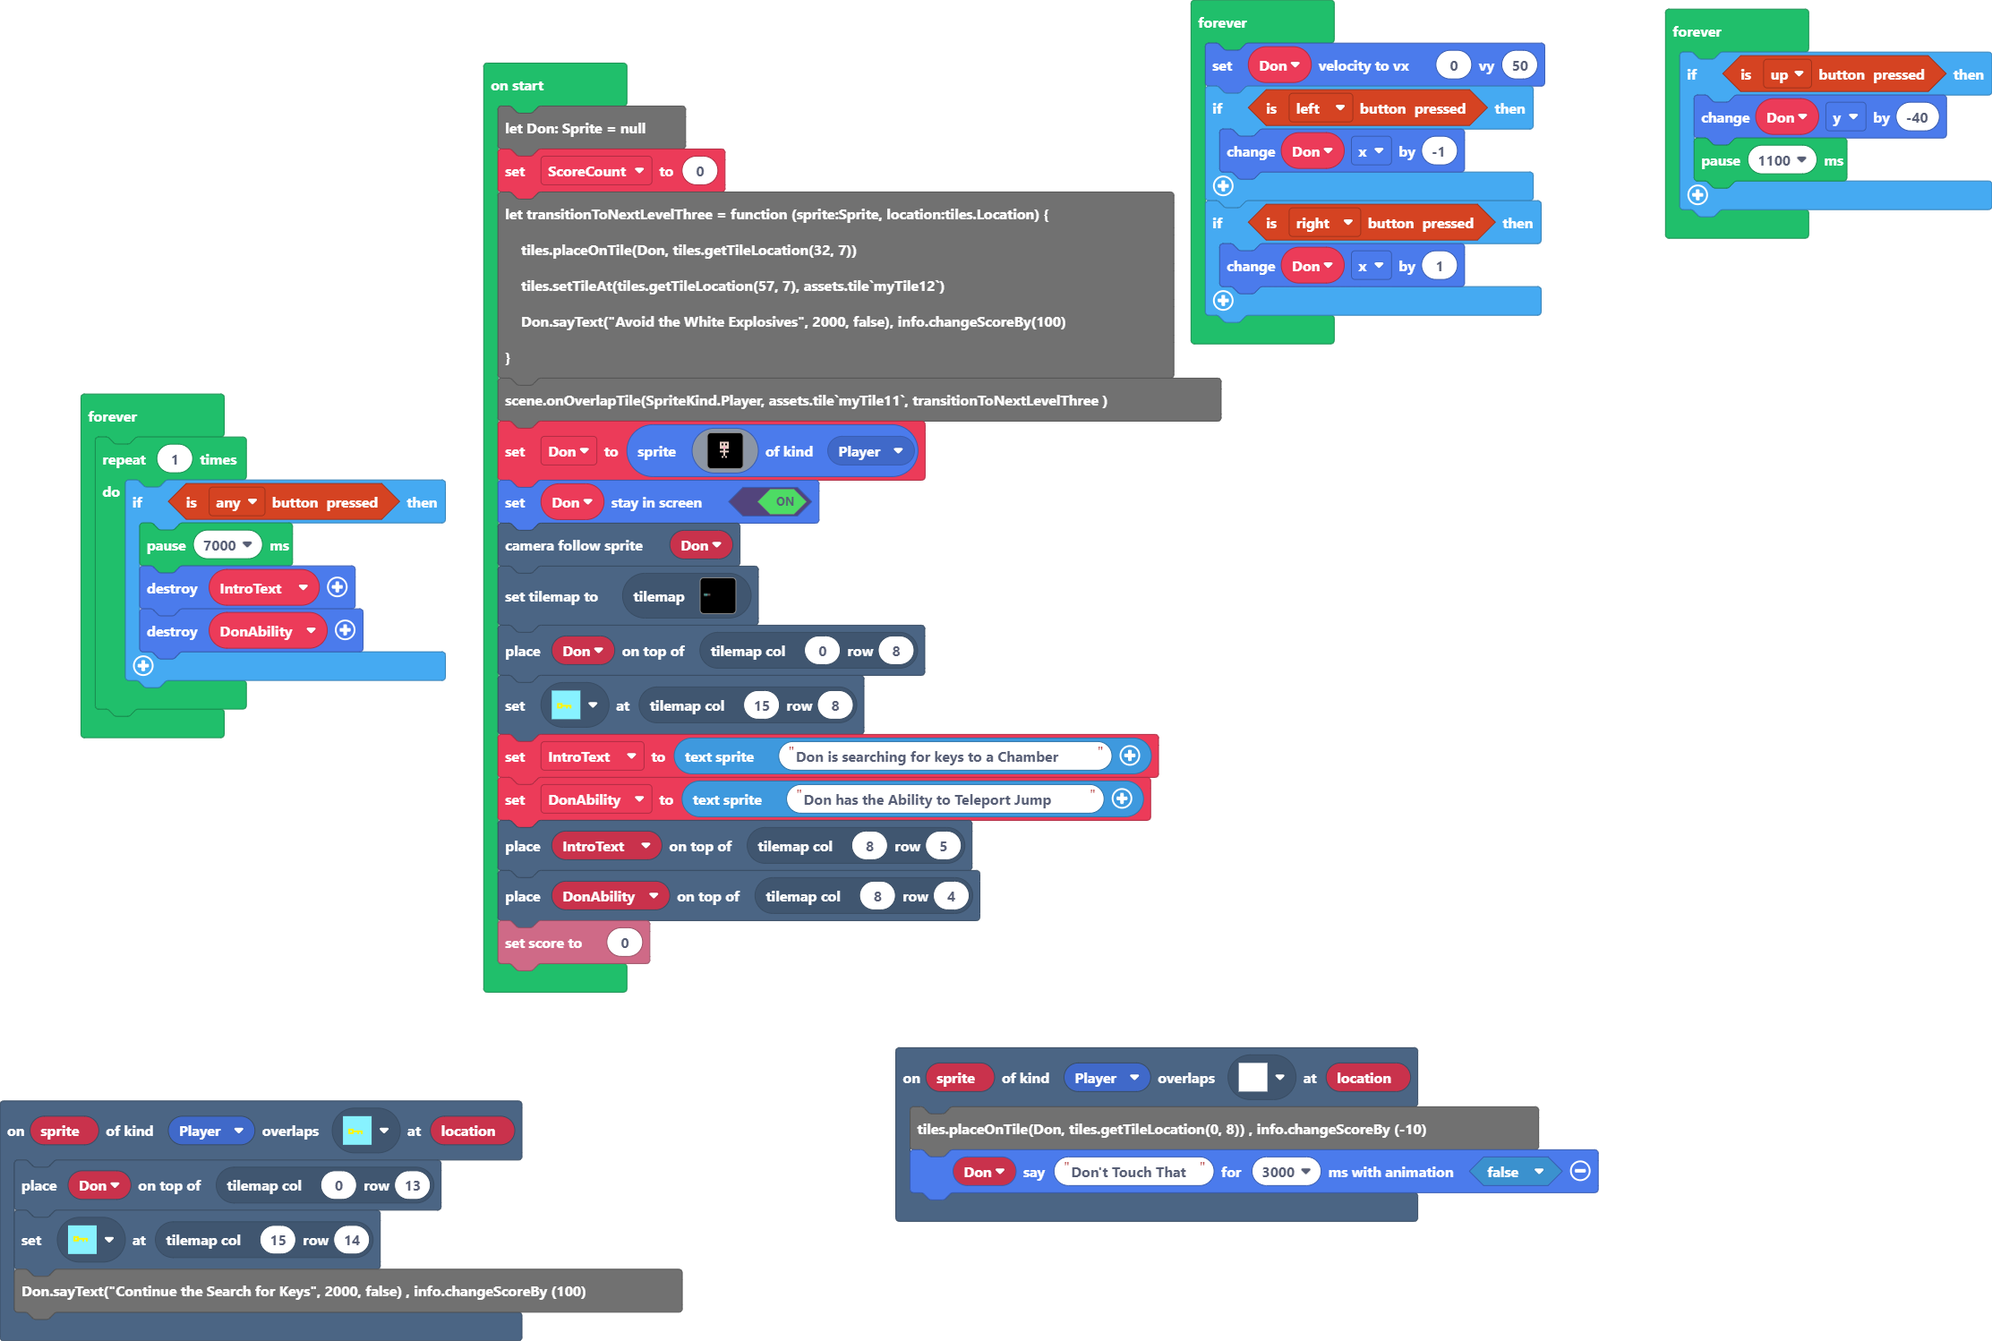
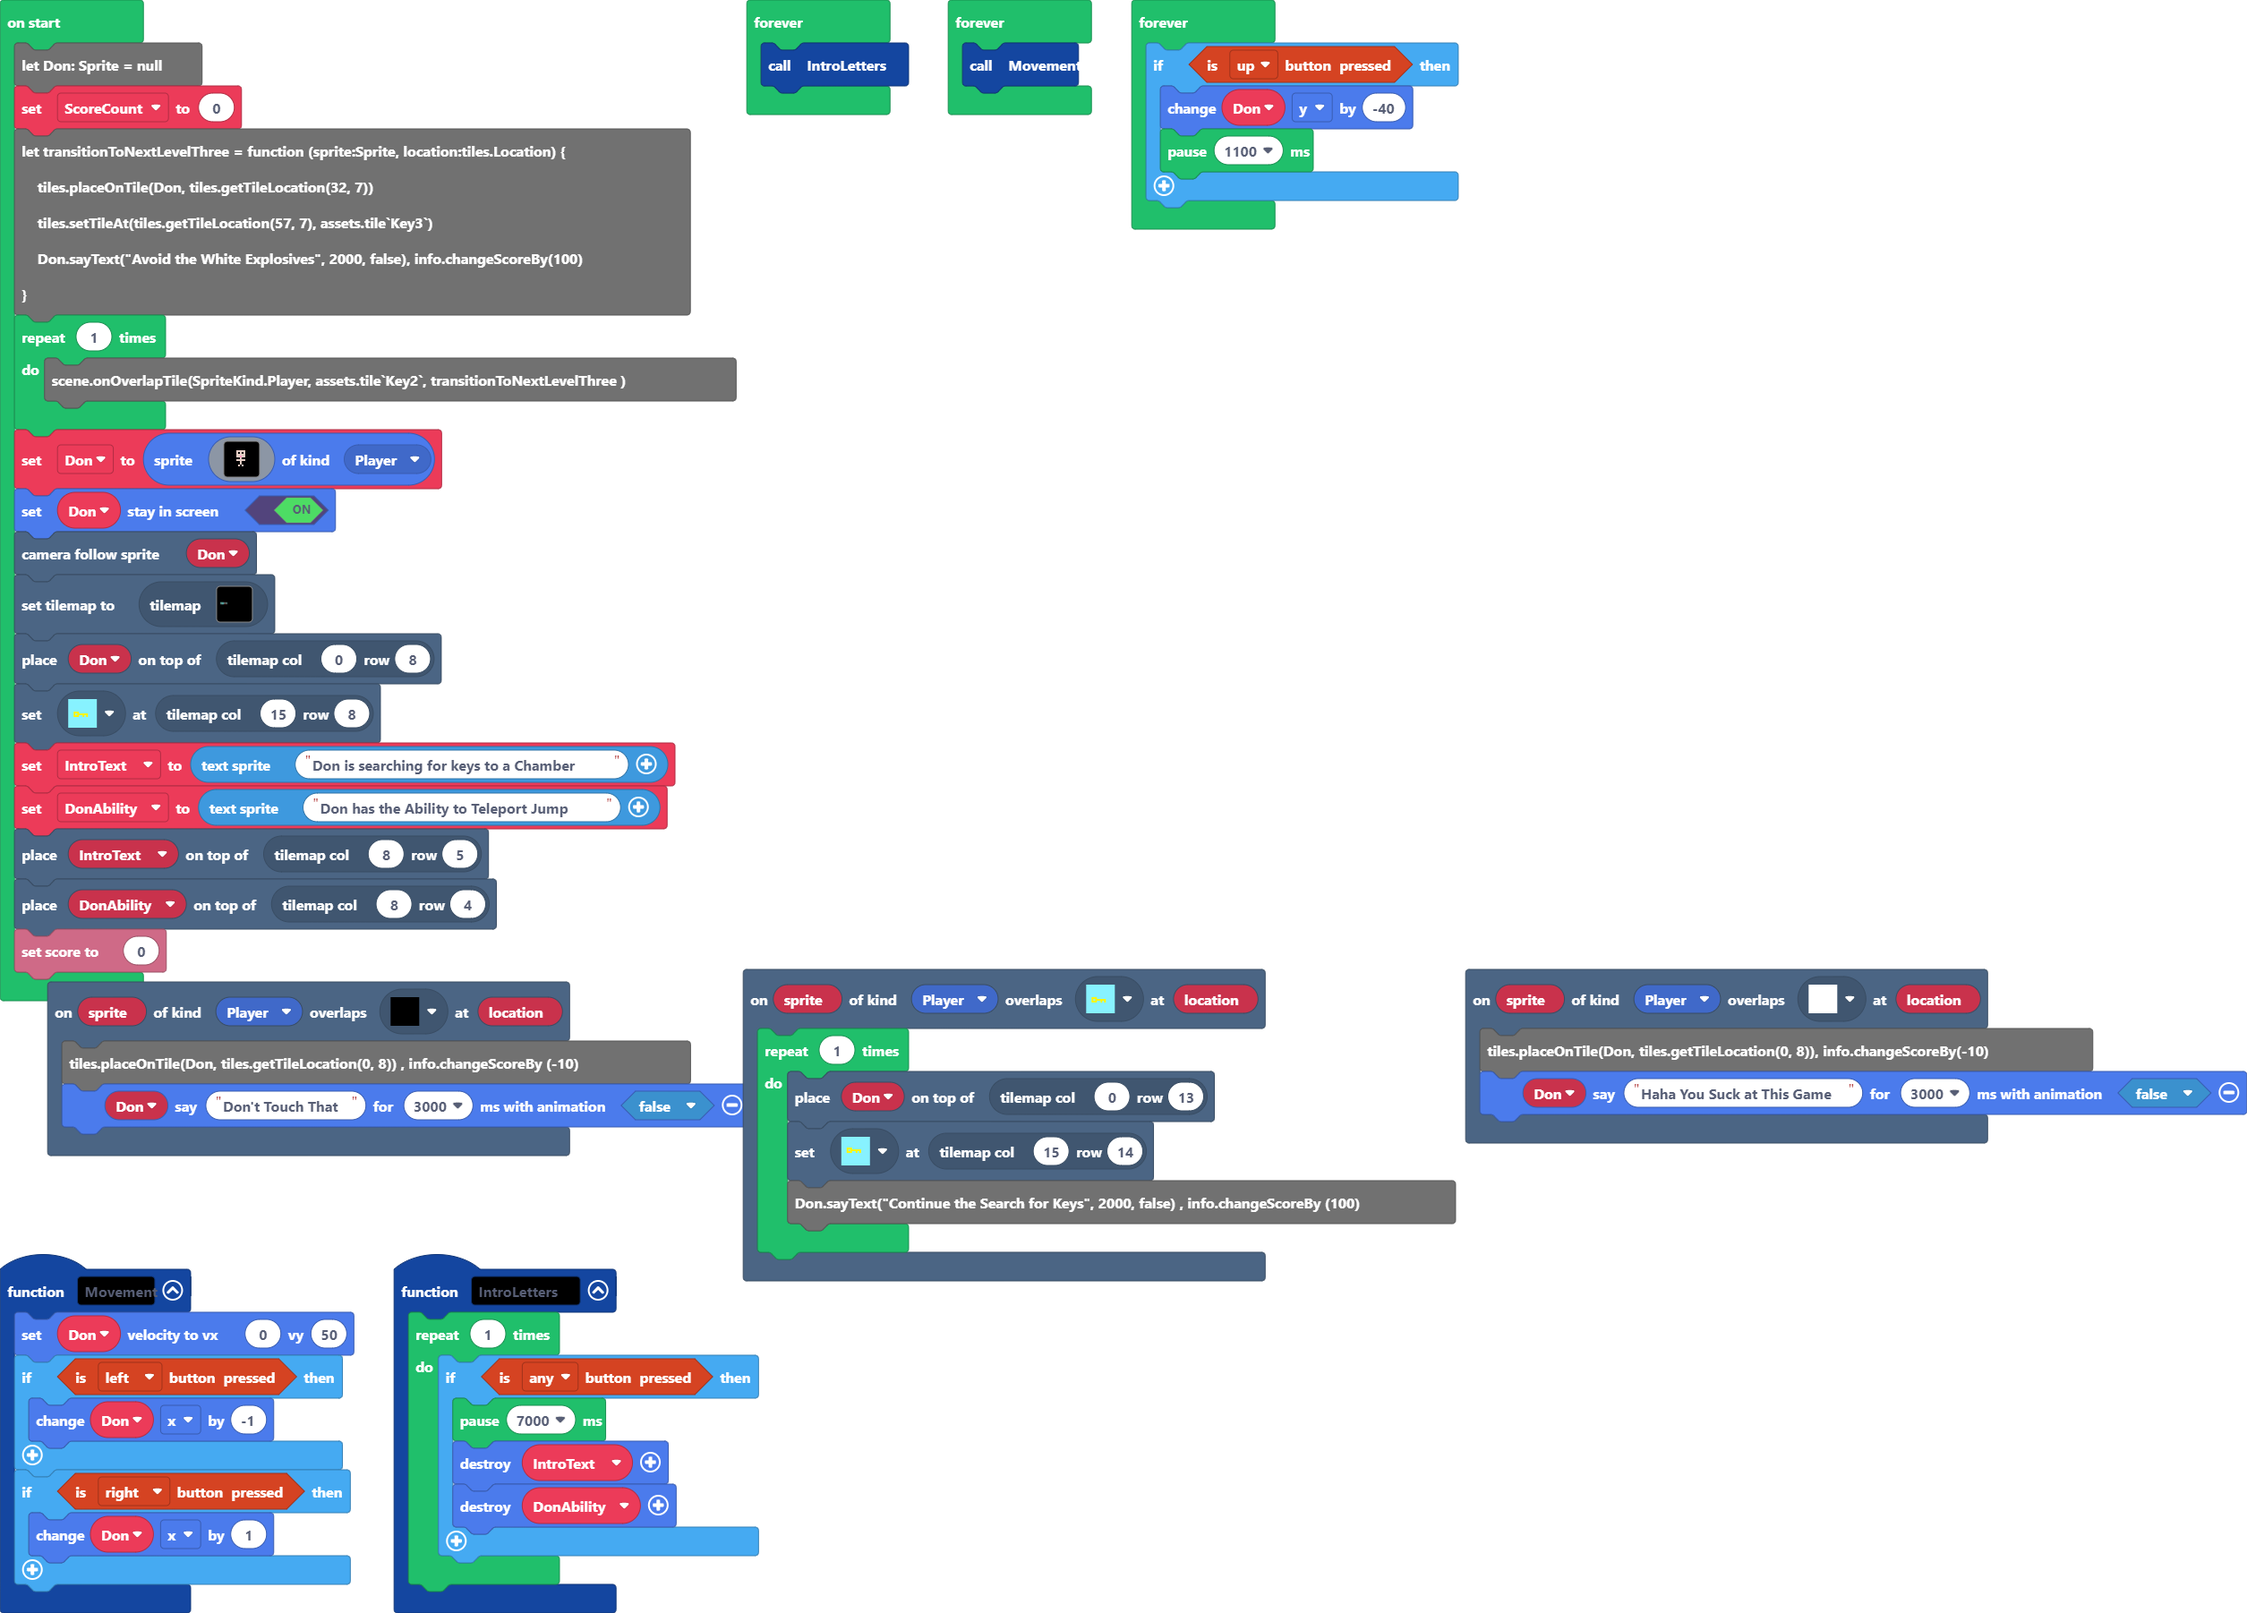
Update pxt.json, main.blocks, main.ts, tilemap.g.jres, tilemap.g.ts

diff --git a/main.ts b/main.ts
@@ -1,35 +1,11 @@
 namespace SpriteKind {
     export const Player2 = SpriteKind.create()
-} 
+}
 scene.onOverlapTile(SpriteKind.Player, assets.tile`myTile7`, function (sprite, location) {
     tiles.placeOnTile(Don, tiles.getTileLocation(0, 8)) , info.changeScoreBy (-10)
 Don.sayText("Don't Touch That", 3000, false)
 })
-scene.onOverlapTile(SpriteKind.Player, assets.tile`myTile10`, function (sprite, location) {
-    tiles.placeOnTile(Don, tiles.getTileLocation(0, 13))
-    tiles.setTileAt(tiles.getTileLocation(15, 14), assets.tile`myTile11`)
-    Don.sayText("Continue the Search for Keys", 2000, false) , info.changeScoreBy (100)
-})
-let Don: Sprite = null
-let ScoreCount = 0
-let transitionToNextLevelThree = function (sprite:Sprite, location:tiles.Location) {
-    tiles.placeOnTile(Don, tiles.getTileLocation(32, 7))
-    tiles.setTileAt(tiles.getTileLocation(57, 7), assets.tile`myTile13`)
-    Don.sayText("Avoid the White Explosives", 2000, false), info.changeScoreBy(100)
-}
-scene.onOverlapTile(SpriteKind.Player, assets.tile`myTile11`, transitionToNextLevelThree )
-Don = sprites.create(assets.image`Don`, SpriteKind.Player)
-Don.setStayInScreen(true)
-scene.cameraFollowSprite(Don)
-tiles.setCurrentTilemap(tilemap`World102`)
-tiles.placeOnTile(Don, tiles.getTileLocation(0, 8))
-tiles.setTileAt(tiles.getTileLocation(15, 8), assets.tile`myTile10`)
-let IntroText = textsprite.create("Don is searching for keys to a Chamber")
-let DonAbility = textsprite.create("Don has the Ability to Teleport Jump")
-tiles.placeOnTile(IntroText, tiles.getTileLocation(8, 5))
-tiles.placeOnTile(DonAbility, tiles.getTileLocation(8, 4))
-info.setScore(0)
-forever(function () {
+function Movement () {
     Don.setVelocity(0, 50)
     if (controller.left.isPressed()) {
         Don.x += -1
@@ -37,14 +13,15 @@ forever(function () {
     if (controller.right.isPressed()) {
         Don.x += 1
     }
-})
-forever(function () {
-    if (controller.up.isPressed()) {
-        Don.y += -40
-        pause(1100)
+}
+scene.onOverlapTile(SpriteKind.Player, assets.tile`Key1`, function (sprite, location) {
+    for (let index = 0; index < 1; index++) {
+        tiles.placeOnTile(Don, tiles.getTileLocation(0, 13))
+        tiles.setTileAt(tiles.getTileLocation(15, 14), assets.tile`Key2`)
+        Don.sayText("Continue the Search for Keys", 2000, false) , info.changeScoreBy (100)
     }
 })
-forever(function () {
+function IntroLetters () {
     for (let index = 0; index < 1; index++) {
         if (controller.anyButton.isPressed()) {
             pause(7000)
@@ -52,8 +29,43 @@ forever(function () {
             DonAbility.destroy()
         }
     }
-})
+}
 scene.onOverlapTile(SpriteKind.Player, assets.tile`myTile14`, function (sprite, location) {
     tiles.placeOnTile(Don, tiles.getTileLocation(0, 8)), info.changeScoreBy(-10)
-    Don.sayText("Haha You Suck at This Game", 3000, false)
+Don.sayText("Haha You Suck at This Game", 3000, false)
+})
+let DonAbility: TextSprite = null
+let IntroText: TextSprite = null
+let Don: Sprite = null
+let ScoreCount = 0
+let transitionToNextLevelThree = function (sprite:Sprite, location:tiles.Location) {
+    tiles.placeOnTile(Don, tiles.getTileLocation(32, 7))
+    tiles.setTileAt(tiles.getTileLocation(57, 7), assets.tile`Key3`)
+    Don.sayText("Avoid the White Explosives", 2000, false), info.changeScoreBy(100)
+}
+for (let index = 0; index < 1; index++) {
+    scene.onOverlapTile(SpriteKind.Player, assets.tile`Key2`, transitionToNextLevelThree )
+}
+Don = sprites.create(assets.image`Don`, SpriteKind.Player)
+Don.setStayInScreen(true)
+scene.cameraFollowSprite(Don)
+tiles.setCurrentTilemap(tilemap`World102`)
+tiles.placeOnTile(Don, tiles.getTileLocation(0, 8))
+tiles.setTileAt(tiles.getTileLocation(15, 8), assets.tile`Key1`)
+IntroText = textsprite.create("Don is searching for keys to a Chamber")
+DonAbility = textsprite.create("Don has the Ability to Teleport Jump")
+tiles.placeOnTile(IntroText, tiles.getTileLocation(8, 5))
+tiles.placeOnTile(DonAbility, tiles.getTileLocation(8, 4))
+info.setScore(0)
+forever(function () {
+    IntroLetters()
+})
+forever(function () {
+    Movement()
+})
+forever(function () {
+    if (controller.up.isPressed()) {
+        Don.y += -40
+        pause(1100)
+    }
 })

diff --git a/tilemap.g.ts b/tilemap.g.ts
@@ -23,8 +23,6 @@ namespace myTiles {
     //% fixedInstance jres blockIdentity=images._tile
     export const tile13 = image.ofBuffer(hex``);
     //% fixedInstance jres blockIdentity=images._tile
-    export const tile12 = image.ofBuffer(hex``);
-    //% fixedInstance jres blockIdentity=images._tile
     export const tile14 = image.ofBuffer(hex``);
     //% fixedInstance jres blockIdentity=images._tile
     export const tile17 = image.ofBuffer(hex``);
@@ -33,13 +31,15 @@ namespace myTiles {
     //% fixedInstance jres blockIdentity=images._tile
     export const tile10 = image.ofBuffer(hex``);
     //% fixedInstance jres blockIdentity=images._tile
+    export const tile19 = image.ofBuffer(hex``);
+    //% fixedInstance jres blockIdentity=images._tile
+    export const tile12 = image.ofBuffer(hex``);
+    //% fixedInstance jres blockIdentity=images._tile
     export const tile15 = image.ofBuffer(hex``);
     //% fixedInstance jres blockIdentity=images._tile
     export const tile16 = image.ofBuffer(hex``);
     //% fixedInstance jres blockIdentity=images._tile
     export const tile18 = image.ofBuffer(hex``);
-    //% fixedInstance jres blockIdentity=images._tile
-    export const tile19 = image.ofBuffer(hex``);
 
     helpers._registerFactory("tilemap", function(name: string) {
         switch(helpers.stringTrim(name)) {
@@ -222,8 +222,6 @@ namespace myTiles {
             case "tile11":return tile11;
             case "myTile8":
             case "tile13":return tile13;
-            case "myTile7":
-            case "tile12":return tile12;
             case "myTile9":
             case "tile14":return tile14;
             case "myTile12":
@@ -232,14 +230,16 @@ namespace myTiles {
             case "tile8":return tile8;
             case "myTile5":
             case "tile10":return tile10;
-            case "myTile10":
-            case "tile15":return tile15;
-            case "myTile11":
-            case "tile16":return tile16;
-            case "myTile13":
-            case "tile18":return tile18;
             case "myTile14":
             case "tile19":return tile19;
+            case "myTile7":
+            case "tile12":return tile12;
+            case "Key1":
+            case "tile15":return tile15;
+            case "Key2":
+            case "tile16":return tile16;
+            case "Key3":
+            case "tile18":return tile18;
         }
         return null;
     })
